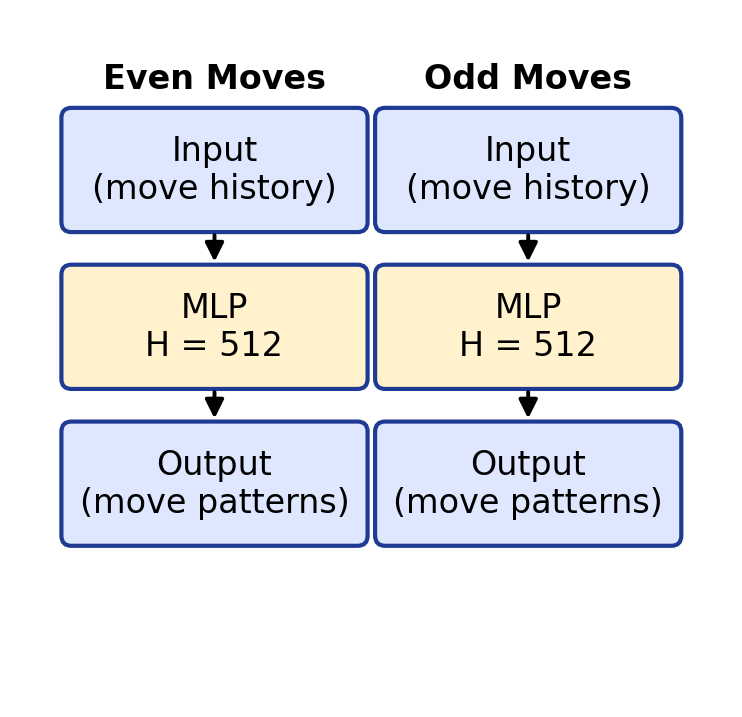
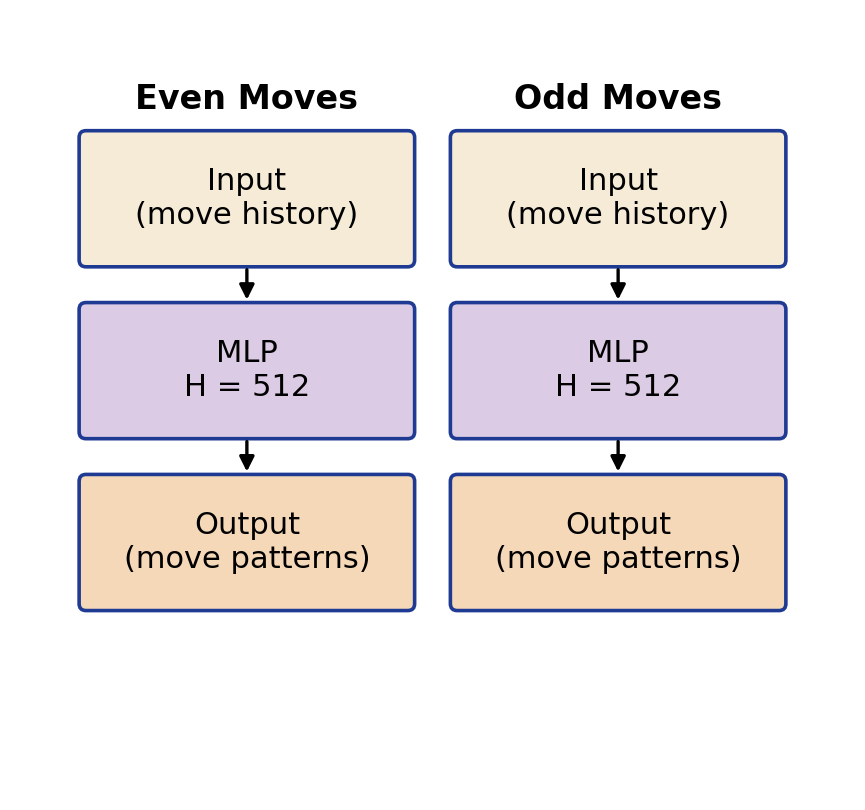
Architecture figures match user's OGPT slide style (residual stream, 8 layers, palette)

diff --git a/plot_architectures.py b/plot_architectures.py
@@ -1,9 +1,7 @@
 """Generate matching architecture diagrams to experiments/plots/.
 
-Both figures use the same box style, colors, and arrow style so they look
-like a matched pair when placed side-by-side in a paper.
-  - ogpt_architecture.png : Move history -> Othello-GPT -> Output
-  - mlp_architecture.png  : Two parity-specific MLPs side-by-side
+  - ogpt_architecture.png : Othello-GPT residual-stream view with 8 layers
+  - mlp_architecture.png  : Two parity-specific MLPs side-by-side (matches OGPT style)
 """
 import os
 
@@ -15,65 +13,115 @@ PLOTS_DIR = "experiments/plots"
 os.makedirs(PLOTS_DIR, exist_ok=True)
 
 
-# Shared style
-INPUT_COLOR = "#dfe7ff"
-MODEL_COLOR = "#fff2cc"
-OUTPUT_COLOR = "#dfe7ff"
-EDGE_COLOR = "#1f3a93"
+# Shared palette (matched to user's OGPT slide)
+COLOR_HISTORY  = "#f5ebd6"   # tan / cream
+COLOR_EMBED    = "#c8e6c9"   # light green
+COLOR_ATTN     = "#bcd5ef"   # light blue
+COLOR_MLP      = "#dccbe4"   # light purple
+COLOR_OUTPUT   = "#f5d8b8"   # tan / peach
+COLOR_DASH     = "#999999"
+EDGE_COLOR     = "#1f3a93"
 
 
-def add_box(ax, cx, cy, w, h, label, color, edge=EDGE_COLOR, fontsize=12):
+def add_box(ax, cx, cy, w, h, label, color, edge=EDGE_COLOR,
+            fontsize=11, linestyle="-"):
     rect = mpatches.FancyBboxPatch(
         (cx - w / 2, cy - h / 2), w, h,
-        boxstyle="round,pad=0.02,rounding_size=0.08",
-        linewidth=1.5, edgecolor=edge, facecolor=color,
+        boxstyle="round,pad=0.02,rounding_size=0.05",
+        linewidth=1.3, edgecolor=edge, facecolor=color,
+        linestyle=linestyle,
     )
     ax.add_patch(rect)
     ax.text(cx, cy, label, ha="center", va="center",
             fontsize=fontsize, color="black")
 
 
-def add_arrow(ax, x0, y0, x1, y1):
+def add_arrow(ax, x0, y0, x1, y1, color="black", lw=1.2):
     ax.annotate(
         "", xy=(x1, y1), xytext=(x0, y0),
-        arrowprops=dict(arrowstyle="-|>", linewidth=1.4,
-                        color="black", mutation_scale=14),
+        arrowprops=dict(arrowstyle="-|>", linewidth=lw,
+                        color=color, mutation_scale=11),
     )
 
 
-# Standard box dimensions used by both figures so they match visually.
-BOX_W = 2.4
-BOX_H = 0.95
-GAP = 1.25  # gap between box centers vertically
-
-
-def draw_three_column(ax, cx, top_y, middle_label,
-                       input_label="Move history (input)",
-                       output_label="Output",
-                       header=None, model_color=MODEL_COLOR):
-    """Draw input -> model -> output column centered at cx.
-
-    If header is set, draws a small title above the column.
-    """
-    ys = [top_y, top_y - GAP, top_y - 2 * GAP]
-    if header is not None:
-        ax.text(cx, top_y + BOX_H / 2 + 0.25, header,
-                ha="center", va="center", fontsize=12,
-                fontweight="bold", color="black")
-    add_box(ax, cx, ys[0], BOX_W, BOX_H, input_label, color=INPUT_COLOR)
-    add_box(ax, cx, ys[1], BOX_W, BOX_H, middle_label, color=model_color)
-    add_box(ax, cx, ys[2], BOX_W, BOX_H, output_label, color=OUTPUT_COLOR)
-    add_arrow(ax, cx, ys[0] - BOX_H / 2, cx, ys[1] + BOX_H / 2)
-    add_arrow(ax, cx, ys[1] - BOX_H / 2, cx, ys[2] + BOX_H / 2)
-
-
 def plot_ogpt():
-    fig, ax = plt.subplots(figsize=(3.6, 4.0))
-    ax.set_xlim(0, 3.5)
-    ax.set_ylim(0, 5.0)
+    fig, ax = plt.subplots(figsize=(6.8, 11.0))
+    ax.set_xlim(0, 6.8)
+    ax.set_ylim(0, 11.0)
     ax.set_aspect("equal")
     ax.axis("off")
-    draw_three_column(ax, cx=1.75, top_y=4.2, middle_label="Othello-GPT")
+
+    # Centerline x for embedding and output boxes
+    cx = 4.0
+
+    # --- top: Move history --> Move embedding ---
+    add_box(ax, cx, 10.55, 2.0, 0.55, "Move history", COLOR_HISTORY)
+    add_box(ax, cx, 9.80,  2.0, 0.55, "Move embedding", COLOR_EMBED)
+    add_arrow(ax, cx, 10.27, cx, 10.08)
+
+    # --- residual stream (left vertical line) ---
+    rs_x = 1.45
+    rs_top = 9.30
+    rs_bot = 0.85
+
+    # path from Move embedding to the top of the residual stream:
+    # down 0.2, then left, then down to top of residual line
+    ax.plot([cx, cx], [9.52, 9.30], color="black", linewidth=1.3)
+    ax.plot([cx, rs_x], [9.30, 9.30], color="black", linewidth=1.3)
+
+    # residual stream vertical line (a single straight line)
+    ax.plot([rs_x, rs_x], [rs_top, rs_bot], color="black", linewidth=1.3)
+
+    # --- 8 layers ---
+    layer_top = 8.85
+    layer_h = 0.78
+    layer_gap = 0.21
+    attn_cx = 3.40
+    mlp_cx  = 5.50
+    box_w   = 1.85
+    box_h   = 0.50
+
+    layer_centers = []
+    for i in range(8):
+        cy = layer_top - i * (layer_h + layer_gap) - layer_h / 2
+        layer_centers.append(cy)
+        # Dashed group box around the layer
+        rect = mpatches.Rectangle(
+            (2.50, cy - layer_h / 2), 4.05, layer_h,
+            linewidth=0.9, edgecolor=COLOR_DASH, facecolor="white",
+            linestyle="--",
+        )
+        ax.add_patch(rect)
+        # Layer i label (small italic, top-left of group box)
+        ax.text(2.55, cy + layer_h / 2 - 0.05, f"Layer {i}",
+                ha="left", va="top", fontsize=8.5,
+                style="italic", color="black")
+        # attention heads + MLP
+        add_box(ax, attn_cx, cy - 0.05, box_w, box_h,
+                "8 attention heads", COLOR_ATTN, fontsize=9.5)
+        add_box(ax, mlp_cx,  cy - 0.05, box_w, box_h,
+                "MLP", COLOR_MLP, fontsize=9.5)
+        # bidirectional arrows between residual stream and this layer
+        # leftward (input) arrow: rs_x -> 2.50 (group box left edge)
+        add_arrow(ax, rs_x, cy + 0.08, 2.48, cy + 0.08)
+        # rightward (output) arrow: 2.50 -> rs_x  (return contribution)
+        add_arrow(ax, 2.48, cy - 0.18, rs_x, cy - 0.18)
+
+    # --- bottom: residual stream -> output ---
+    out_cy = 0.45
+    add_box(ax, cx, out_cy, 3.5, 0.75,
+            "OUTPUT:  P(next move)\nsoftmax over 60 board cells",
+            COLOR_OUTPUT, fontsize=10)
+    # path from bottom of residual stream to the output box
+    ax.plot([rs_x, rs_x], [rs_bot, out_cy + 0.05], color="black", linewidth=1.3)
+    ax.plot([rs_x, cx], [out_cy + 0.05, out_cy + 0.05], color="black", linewidth=1.3)
+    add_arrow(ax, cx, out_cy + 0.45, cx, out_cy + 0.4)
+
+    # --- "Residual stream" label (rotated, on the very left) ---
+    ax.text(0.55, (rs_top + rs_bot) / 2, "Residual stream",
+            rotation=90, ha="center", va="center",
+            fontsize=13, color="black")
+
     out_path = os.path.join(PLOTS_DIR, "ogpt_architecture.png")
     plt.savefig(out_path, dpi=200, bbox_inches="tight")
     print(f"Saved {out_path}")
@@ -81,24 +129,34 @@ def plot_ogpt():
 
 
 def plot_mlp():
-    # Same visual scale as OGPT, but two columns + header labels
-    fig, ax = plt.subplots(figsize=(5.6, 4.4))
-    ax.set_xlim(0, 5.6)
-    ax.set_ylim(0, 5.4)
+    """Two parity-specific MLPs side-by-side, matching OGPT palette."""
+    fig, ax = plt.subplots(figsize=(6.0, 5.0))
+    ax.set_xlim(0, 6.0)
+    ax.set_ylim(0, 5.6)
     ax.set_aspect("equal")
     ax.axis("off")
-    draw_three_column(
-        ax, cx=1.55, top_y=4.2, middle_label="MLP\nH = 512",
-        input_label="Input\n(move history)",
-        output_label="Output\n(move patterns)",
-        header="Even Moves",
-    )
-    draw_three_column(
-        ax, cx=4.05, top_y=4.2, middle_label="MLP\nH = 512",
-        input_label="Input\n(move history)",
-        output_label="Output\n(move patterns)",
-        header="Odd Moves",
-    )
+
+    BOX_W = 2.4
+    BOX_H = 0.95
+    GAP = 1.25
+
+    cols = [1.65, 4.35]
+    headers = ["Even Moves", "Odd Moves"]
+    for col, header in zip(cols, headers):
+        top_y = 4.3
+        ys = [top_y, top_y - GAP, top_y - 2 * GAP]
+        ax.text(col, top_y + BOX_H / 2 + 0.25, header,
+                ha="center", va="center", fontsize=12,
+                fontweight="bold", color="black")
+        add_box(ax, col, ys[0], BOX_W, BOX_H,
+                "Input\n(move history)", COLOR_HISTORY, fontsize=11)
+        add_box(ax, col, ys[1], BOX_W, BOX_H,
+                "MLP\nH = 512", COLOR_MLP, fontsize=11)
+        add_box(ax, col, ys[2], BOX_W, BOX_H,
+                "Output\n(move patterns)", COLOR_OUTPUT, fontsize=11)
+        add_arrow(ax, col, ys[0] - BOX_H / 2, col, ys[1] + BOX_H / 2)
+        add_arrow(ax, col, ys[1] - BOX_H / 2, col, ys[2] + BOX_H / 2)
+
     out_path = os.path.join(PLOTS_DIR, "mlp_architecture.png")
     plt.savefig(out_path, dpi=200, bbox_inches="tight")
     print(f"Saved {out_path}")
